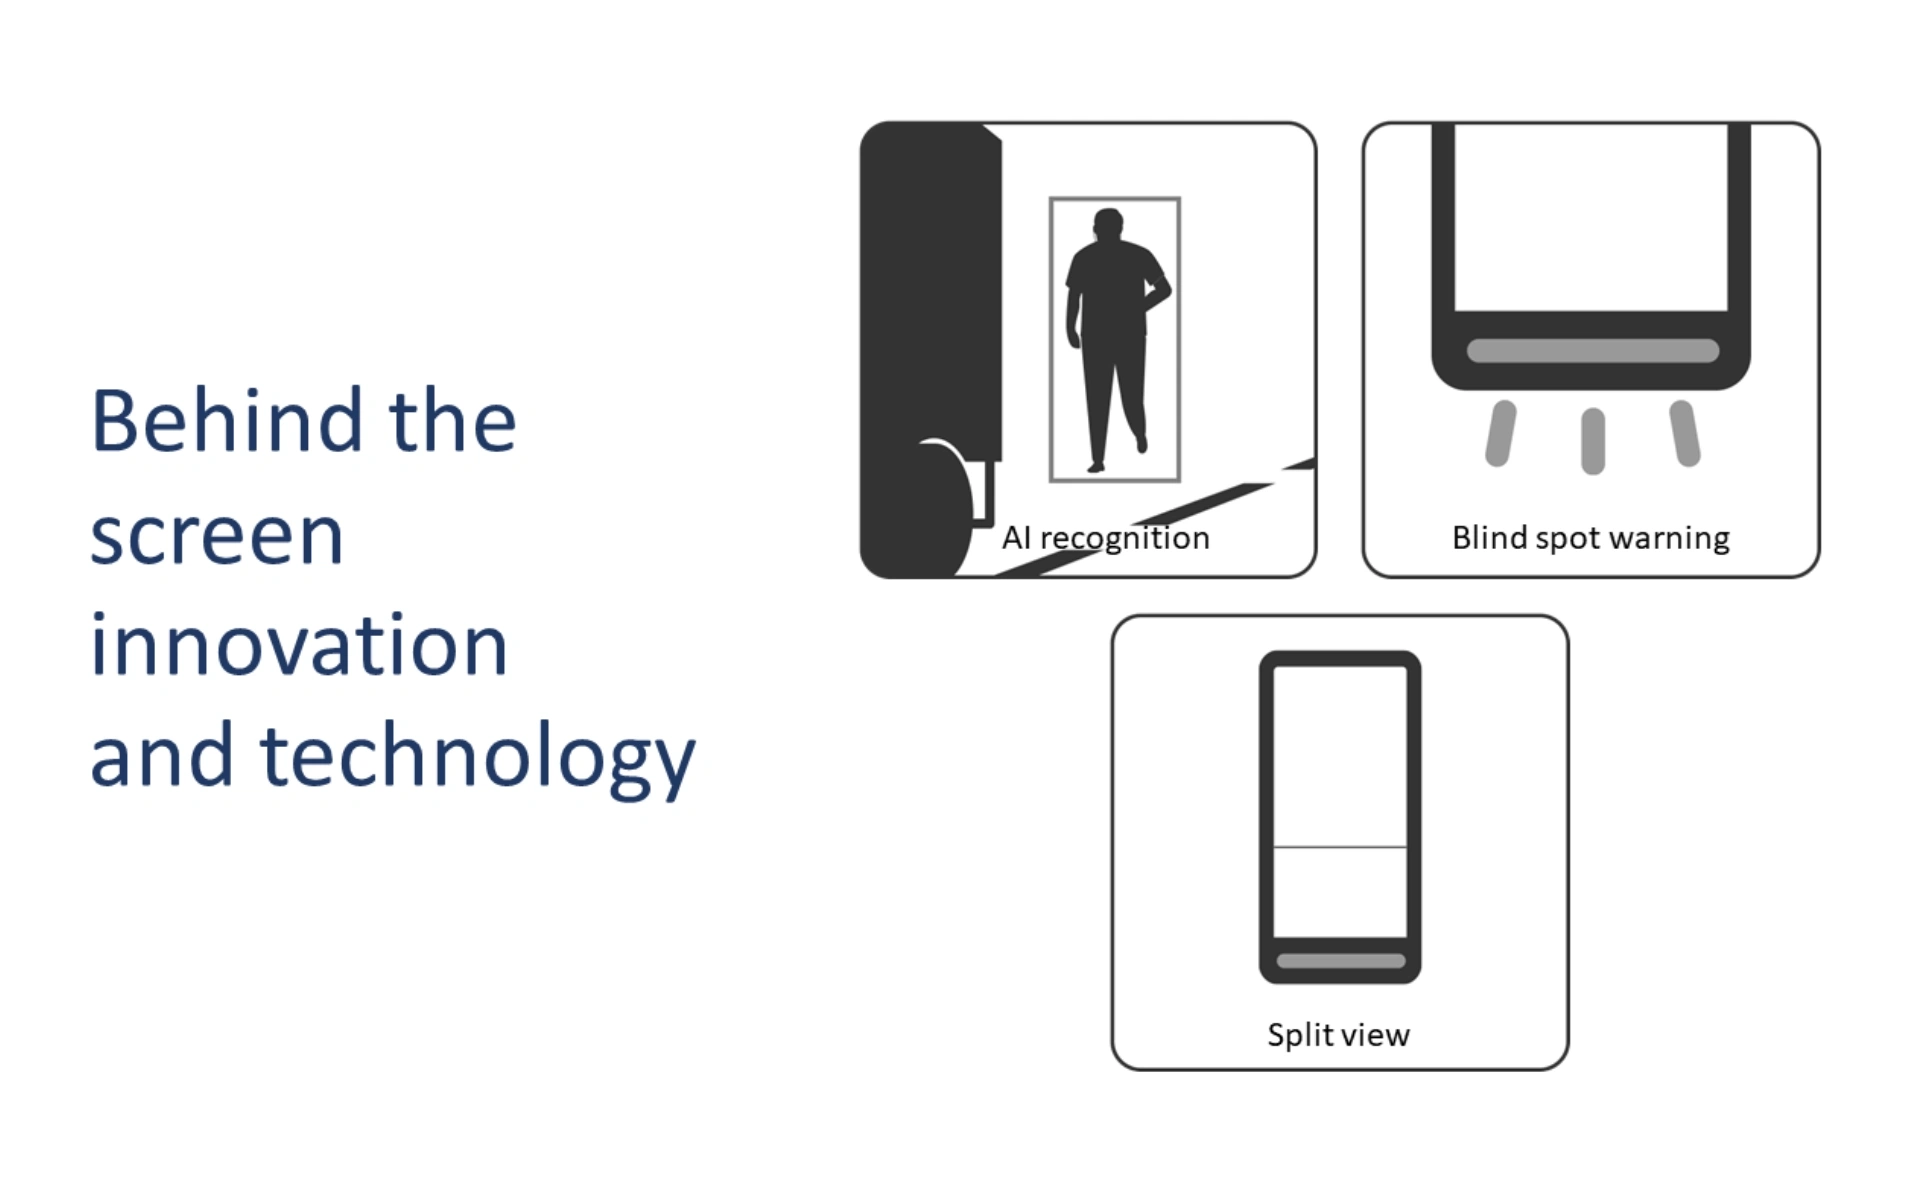
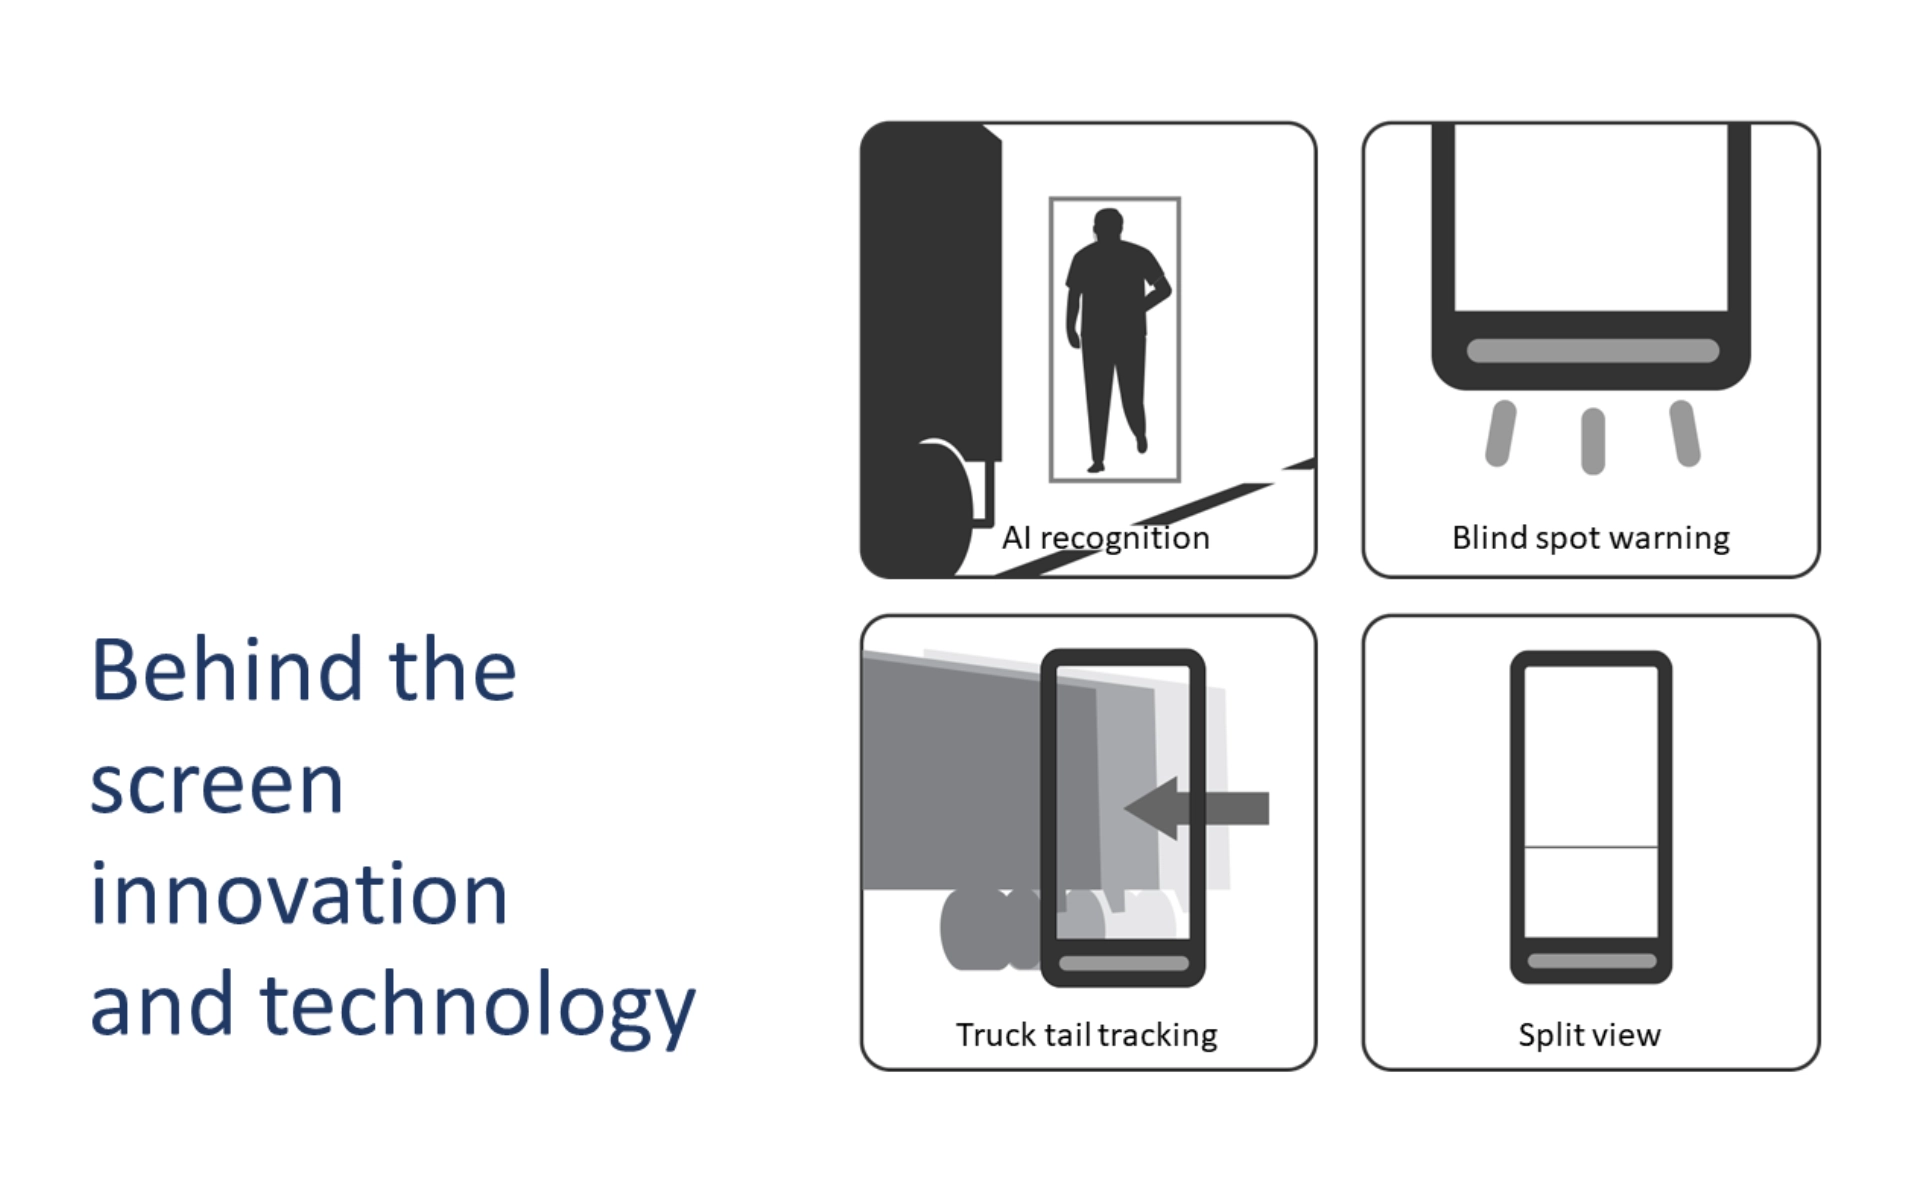
fix: 同步 interview_portfolio_static 最新圖檔資產與頁面至 GitHub

diff --git a/index.html b/index.html
@@ -116,7 +116,7 @@
           <span class="project-tag">04 / 邊緣 AI</span>
           <h3>AI 卡車電子後視鏡</h3>
           <p class="card-desc">
-            整合雙鏡頭影像與邊緣 AI 辨識，在行車畫面中標示偵測結果。
+            以邊緣運算為核心，為大型卡車建構零死角的主動行車防護體系。
           </p>
           <div class="card-media">
             <img src="assets/images/ai-truck-emirror-hero.webp" alt="12.3 吋 AI 卡車電子後視鏡" loading="lazy" />
@@ -182,7 +182,7 @@
           <div class="about-content">
             <div class="about-identity">
               <span class="about-name">黃鈺峰 / YU-FENG HUANG</span>
-              <h2>從外觀到運作，思考完整的產品體驗。</h2>
+              <h2>從外觀到運作，思考完整的產品體驗</h2>
             </div>
             <p>
               以工業設計為背景，開發經驗涵蓋顯示產品、嵌入式系統與互動應用。工作從外觀與機構延伸到電路、韌體與軟體，關注各個環節如何共同構成完整的使用體驗——從設定、內容更新，到日常操作。

diff --git a/work/ai-truck-emirror/index.html b/work/ai-truck-emirror/index.html
@@ -466,13 +466,9 @@
 
         <!-- 實機影片直接嵌入 (YouTube) -->
         <div class="video-embed-stage">
-          <iframe
-            src="https://www.youtube.com/embed/0Wqjfp0PRo0"
-            title="AI 卡車電子後視鏡：Linux RKNN 推論與產品整合實機展示"
+          <iframe src="https://www.youtube.com/embed/0Wqjfp0PRo0" title="AI 卡車電子後視鏡：Linux RKNN 推論與產品整合實機展示"
             allow="accelerometer; autoplay; clipboard-write; encrypted-media; gyroscope; picture-in-picture; web-share"
-            referrerpolicy="strict-origin-when-cross-origin"
-            allowfullscreen
-            loading="lazy">
+            referrerpolicy="strict-origin-when-cross-origin" allowfullscreen loading="lazy">
           </iframe>
         </div>
       </div>
